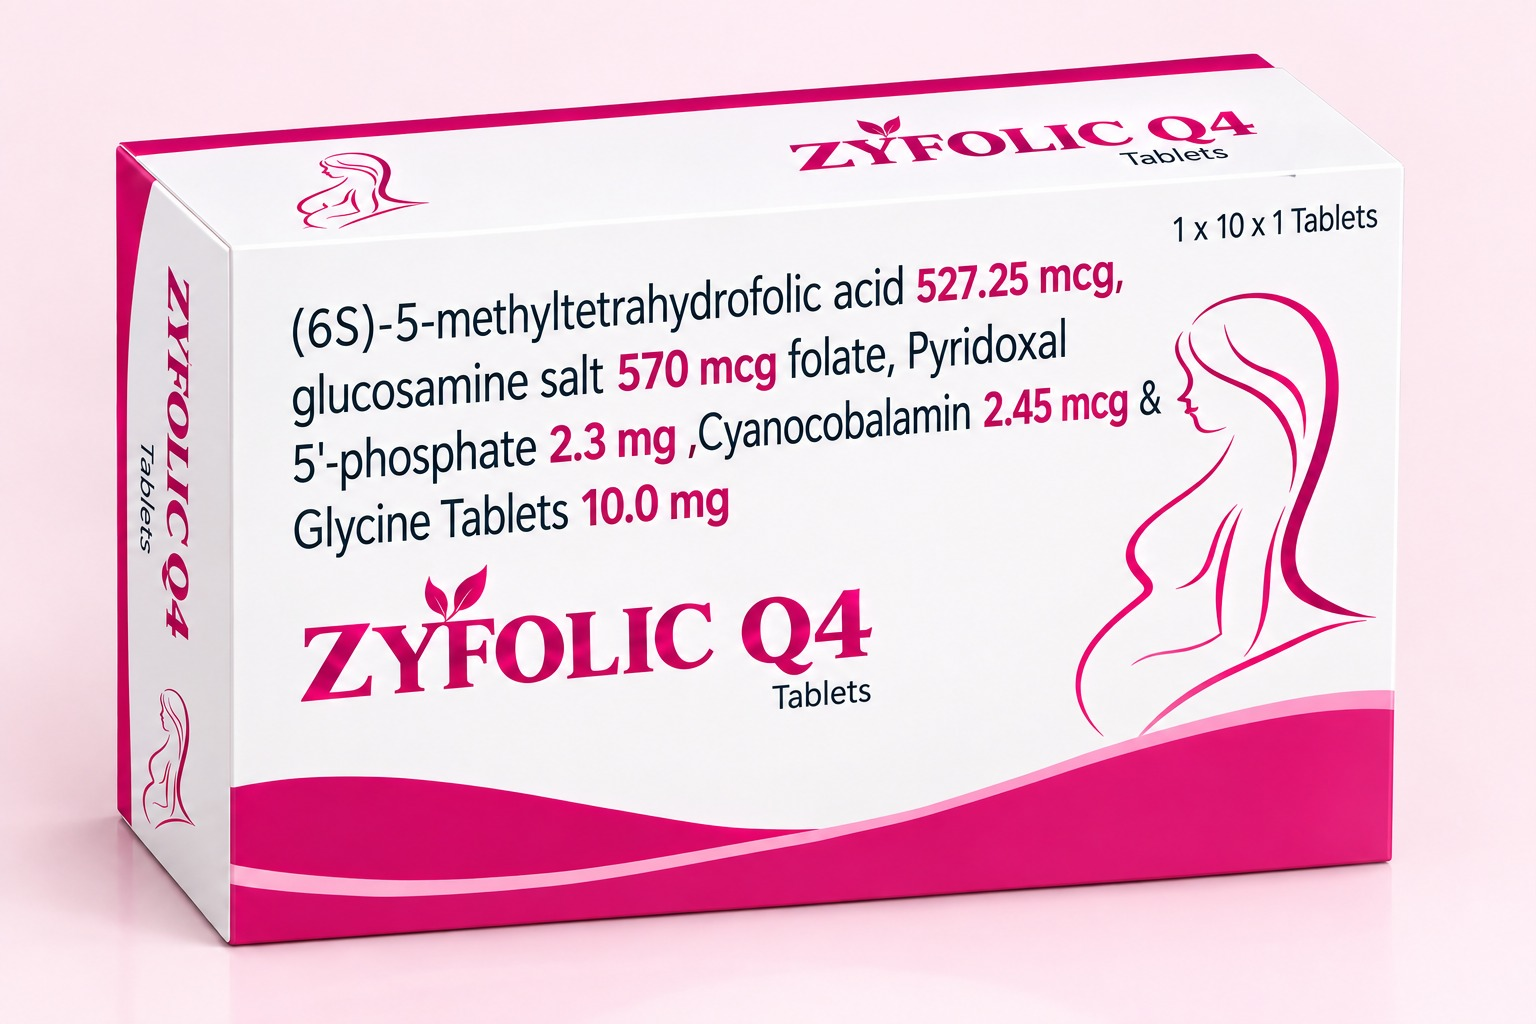
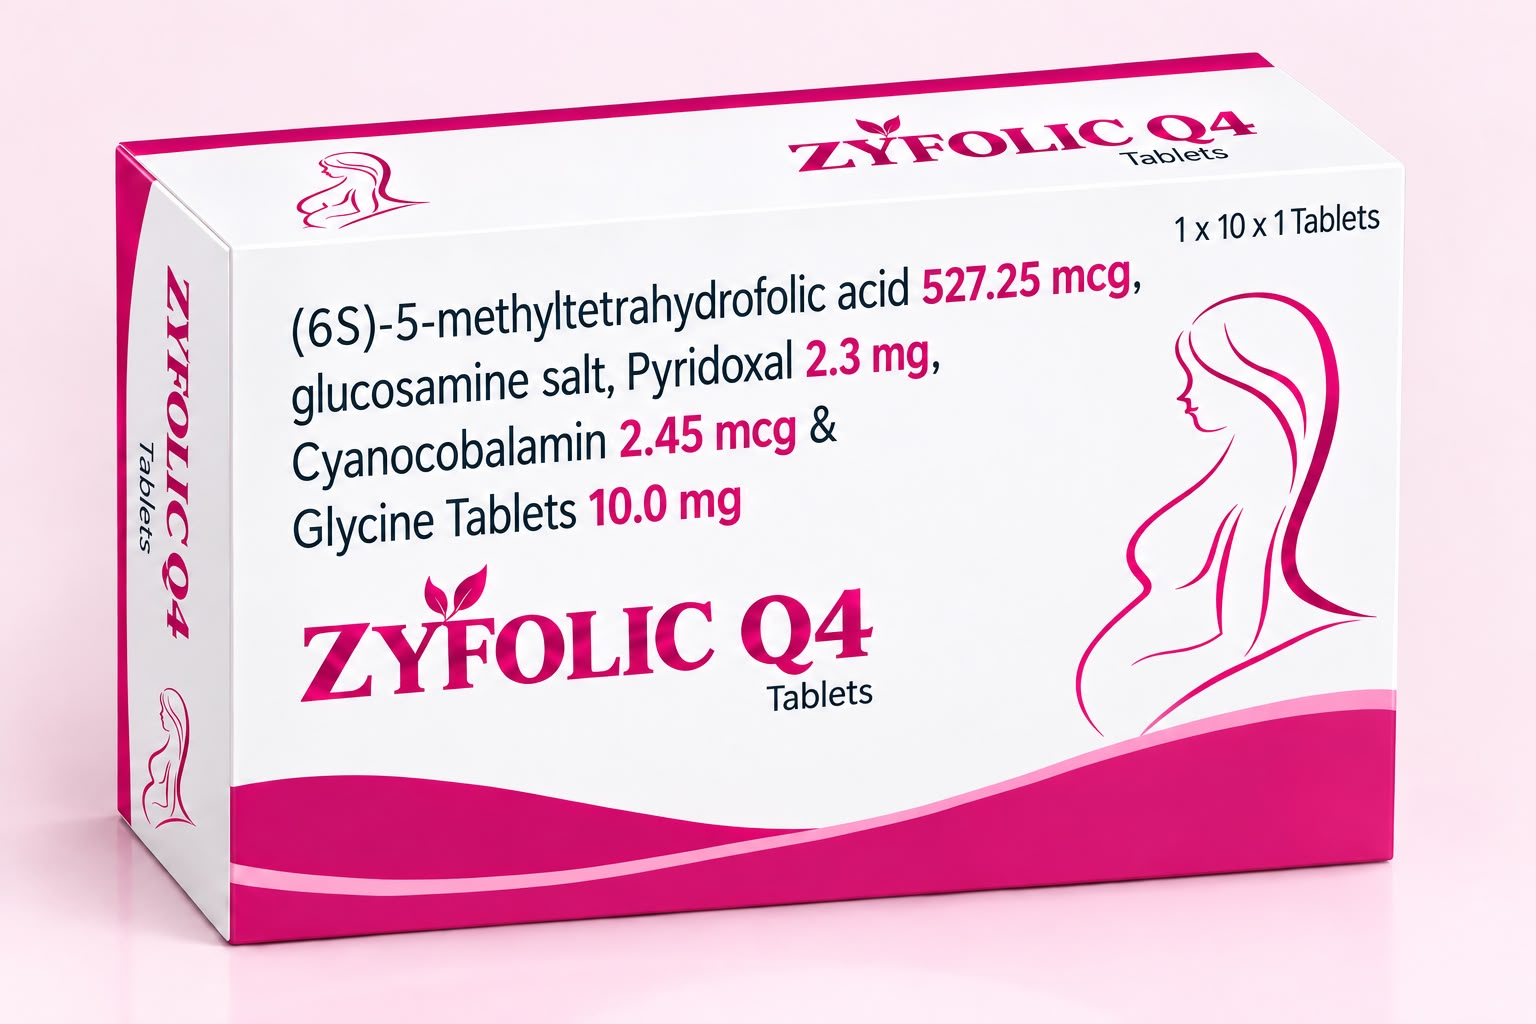
Contact departments, Facebook link, category moves, veg mark, new cartons
Contact
-------
The page now carries Zafieon's exact copy: "Contact Us" / "Let's Connect",
the new introduction, "Every Dose Matters." and "How Can We Help You?",
followed by the five enquiry departments — General, Sales & Business
Development, Purchase & Procurement, Corporate, Administration — each with
its description and its own mailbox as a mailto: link. The Reach us column,
offices and social row are unchanged.

Facebook
--------
The icon, previously shown without a link, now links to the profile URL
Zafieon supplied and opens in a new tab.

Categories
----------
  · New therapeutic area "Reproductive & Women's Health": Mifiprine and
    MISO-PRO (both keep their existing areas). No artwork was supplied for
    it; the home Focus panel and Our Focus render it without an image.
  · Fertility: Femulet added; Zyfolic and Zyfolic Q4 removed.
  · Women's Wellness: Zyfolic and Zyfolic Q4 added. Femulet moves out of
    Women's Wellness rather than sitting in both, per "do not duplicate
    products across categories".

Green veg mark
--------------
Shown on every product card, top-right of the image plate so it never meets
the Rx badge on the left — identical position and size on all 15 cards.
Recorded in docs/CLAIMS.md: only Femulet, Florabet LL and Ferrin-XT print a
vegetarian mark on their supplied artwork.

New cartons
-----------
  · Femi-Dros 20 (new photograph): 10 x 1 x 21 Tablets, and the pack's own
[…]

diff --git a/src/data/products.ts b/src/data/products.ts
@@ -70,17 +70,17 @@ const productRecords: Product[] = [
     dosageForm: "Tablets",
     therapeuticAreas: ["gynecology", "hormonal-health"],
     description:
-      "A prescription combination tablet containing Drospirenone and Ethinyl Estradiol at a lower estradiol strength, presented in a twenty-one tablet pack.",
-    composition: "Drospirenone 3 mg + Ethinyl Estradiol 0.02 mg Tablets IP",
-    packaging: "1 x 21 Tablets",
+      "A prescription combination tablet containing Drospirenone and Ethinylestradiol at a lower estradiol strength, presented in blisters of twenty-one tablets.",
+    composition: "Drospirenone 3 mg & Ethinylestradiol 0.02 mg Tablets IP",
+    packaging: "10 x 1 x 21 Tablets",
     packMarkings: ["Rx — Prescription only"],
     image: "/products/femi-dros-20.webp",
     blurDataURL:
[2 lines of base64/hex data omitted]
     imageAlt:
-      "Femi-Dros 20 carton — Drospirenone 3 mg and Ethinyl Estradiol 0.02 mg Tablets IP, 1 x 21 tablets, bearing the Zafieon Pharma mark",
+      "Femi-Dros 20 carton — Drospirenone 3 mg and Ethinylestradiol 0.02 mg Tablets IP, 10 x 1 x 21 tablets, bearing the Zafieon Pharma mark",
     zafieonBranded: true,
-    source: "Product Images/Femi dros 0.2.jpeg",
+    source: "public/products/femi dros 20.jpeg",
   },
   {
     id: "prd-03",
@@ -89,7 +89,7 @@ const productRecords: Product[] = [
     productClass: "prescription",
     categories: ["prescription"],
     dosageForm: "Tablets",
-    therapeuticAreas: ["gynecology"],
+    therapeuticAreas: ["gynecology", "reproductive-womens-health"],
     description:
       "A prescription tablet containing Misoprostol 200 mcg, presented in a twenty tablet pack.",
     composition: "Misoprostol Tablets IP 200 mcg",
@@ -110,7 +110,7 @@ const productRecords: Product[] = [
     productClass: "nutraceutical",
     categories: ["nutraceutical"],
     dosageForm: "Softgel Capsules",
-    therapeuticAreas: ["gynecology", "fertility"],
+    therapeuticAreas: ["gynecology", "womens-wellness"],
     description:
       "A softgel capsule combining L-Methyl folate, Methylcobalamin, Pyridoxal-5 Phosphate, DHA and Vitamin D3.",
     composition:
@@ -137,17 +137,17 @@ const productRecords: Product[] = [
     productClass: "nutraceutical",
     categories: ["nutraceutical"],
     dosageForm: "Tablets",
-    therapeuticAreas: ["gynecology", "fertility"],
+    therapeuticAreas: ["gynecology", "womens-wellness"],
     description:
-      "A tablet combining (6S)-5-methyltetrahydrofolic acid glucosamine salt, Pyridoxal 5'-phosphate, Cyanocobalamin and Glycine, presented in a ten tablet pack.",
+      "A tablet combining (6S)-5-methyltetrahydrofolic acid as its glucosamine salt with Pyridoxal, Cyanocobalamin and Glycine, presented in a ten tablet pack.",
     composition:
-      "(6S)-5-Methyltetrahydrofolic Acid 527.25 mcg, Glucosamine Salt 570 mcg Folate, Pyridoxal 5'-Phosphate 2.3 mg, Cyanocobalamin 2.45 mcg & Glycine 10.0 mg Tablets",
+      "(6S)-5-Methyltetrahydrofolic Acid 527.25 mcg, Glucosamine Salt, Pyridoxal 2.3 mg, Cyanocobalamin 2.45 mcg & Glycine 10.0 mg Tablets",
     packaging: "1 x 10 x 1 Tablets",
     image: "/products/zyfolic-q4.webp",
     blurDataURL:
[2 lines of base64/hex data omitted]
     imageAlt:
-      "Zyfolic Q4 carton — (6S)-5-methyltetrahydrofolic acid glucosamine salt, Pyridoxal 5'-phosphate, Cyanocobalamin and Glycine tablets, 1 x 10 x 1",
+      "Zyfolic Q4 carton — (6S)-5-methyltetrahydrofolic acid glucosamine salt, Pyridoxal, Cyanocobalamin and Glycine tablets, 1 x 10 x 1",
     zafieonBranded: false,
     source: "public/products/zyfolic Q4.jpeg",
   },
@@ -182,16 +182,16 @@ const productRecords: Product[] = [
     dosageForm: "Tablets",
     therapeuticAreas: ["gynecology", "womens-wellness"],
     description:
-      "A nutraceutical tablet combining liposomal ferric pyrophosphate with Vitamin C, Vitamin B12 and folic acid. Each tablet provides 30 mg of liposomal ferric pyrophosphate, 50 mg of Vitamin C, 2.2 mcg of Vitamin B12 and 200 mcg of folic acid, presented in a ten tablet pack.",
+      "A nutraceutical tablet combining iron, as liposomal ferric pyrophosphate, with Vitamin C, Vitamin B12 and folic acid. Each tablet provides ferric pyrophosphate equivalent to 30 mg of iron, 50 mg of Vitamin C, 2.2 mcg of Vitamin B12 and 200 mcg of folic acid, presented in a ten tablet pack.",
     composition:
-      "Ferric Pyrophosphate (Liposomal) 30 mg, Vitamin C 50 mg, Vitamin B12 2.2 mcg & Folic Acid 200 mcg Tablets",
+      "Ferric Pyrophosphate (Liposomal) eq. Iron 30 mg, Vitamin C 50 mg, Vitamin B12 2.2 mcg & Folic Acid 200 mcg Tablets",
     packaging: "1 x 10 x 1 Tablets",
     packMarkings: ["For better absorption & healthier tomorrow"],
     image: "/products/iro-plus.webp",
     blurDataURL:
[2 lines of base64/hex data omitted]
     imageAlt:
-      "Iro Plus carton — Ferric Pyrophosphate (Liposomal) 30 mg, Vitamin C, Vitamin B12 and Folic Acid tablets, 1 x 10 x 1",
+      "Iro Plus carton — Ferric Pyrophosphate (Liposomal) eq. Iron 30 mg, Vitamin C, Vitamin B12 and Folic Acid tablets, 1 x 10 x 1",
     zafieonBranded: false,
     source: "public/products/iroplus.jpeg",
   },
@@ -202,7 +202,7 @@ const productRecords: Product[] = [
     productClass: "nutraceutical",
     categories: ["nutraceutical"],
     dosageForm: "Tablets",
-    therapeuticAreas: ["gynecology", "womens-wellness"],
+    therapeuticAreas: ["gynecology", "fertility"],
     description:
       "A nutraceutical tablet for women combining N-Acetyl L-Cysteine, Coenzyme Q10, Melatonin, Astaxanthin, Folic Acid and vitamins B6, B12 and D2.",
     composition:
@@ -268,7 +268,7 @@ const productRecords: Product[] = [
     productClass: "prescription",
     categories: ["prescription", "hormone"],
     dosageForm: "Tablets",
-    therapeuticAreas: ["gynecology", "hormonal-health"],
+    therapeuticAreas: ["gynecology", "hormonal-health", "reproductive-womens-health"],
     description:
       "A prescription tablet containing Mifepristone 200 mg, presented in a ten tablet pack.",
     composition: "Mifepristone Tablets IP 200 mg",

diff --git a/src/data/site.ts b/src/data/site.ts
@@ -110,36 +110,51 @@ export const social: { id: SocialId; label: string; href: string }[] = [
   {
     id: "facebook",
     label: "Facebook",
-    // To be supplied by Zafieon. Leave empty until then.
-    href: "",
+    href: "https://www.facebook.com/61593976726278/?http_ref=eyJ0cyI6MTc4OTc5NzY3NTAwMCwiciI6IiJ9",
   },
 ];
 
 /**
- * The Contact page's standing invitation, in place of an enquiry form.
+ * The Contact page's enquiry routes, in place of a form.
  *
- * Each strand names a reason someone would get in touch and routes to the same
- * verified email — there is no second form behind it.
+ * Five departments, each with the address Zafieon published for it. Every one
+ * is a real mailbox supplied by the client — nothing here is a guess, and the
+ * page turns each into a `mailto:` link.
  */
 export const connect = {
   eyebrow: "Let's connect",
-  headline: ["Good partnerships begin", "with a conversation."],
-  body: "Whether you're interested in our products, exploring a business opportunity, or simply want to know more about Zafieon Pharma, we'd be happy to connect.",
+  headline: ["How can we", "help you?"],
+  body: "At ZAFIEON PHARMA, we believe meaningful partnerships begin with meaningful conversations. Whether you are a healthcare professional, distributor, business partner, supplier, or customer, our team is here to assist you.",
   strands: [
     {
-      id: "products",
-      label: "Products",
-      body: "Pharmaceutical products and portfolio",
-    },
-    {
-      id: "partnerships",
-      label: "Partnerships",
-      body: "Business and collaboration opportunities",
-    },
-    {
       id: "general",
-      label: "General Information",
-      body: "Learn more about Zafieon Pharma",
+      label: "General Enquiries",
+      body: "For general information about ZAFIEON PHARMA, our products, services, and company.",
+      email: "info@zafieonpharma.com",
+    },
+    {
+      id: "sales",
+      label: "Sales & Business Development",
+      body: "For product enquiries, business opportunities, distribution partnerships, and sales-related enquiries.",
+      email: "sales@zafieonpharma.com",
+    },
+    {
+      id: "purchase",
+      label: "Purchase & Procurement",
+      body: "For suppliers, procurement, manufacturing requirements, and purchase-related enquiries.",
+      email: "purchase@zafieonpharma.com",
+    },
+    {
+      id: "corporate",
+      label: "Corporate Enquiries",
+      body: "For corporate communication, strategic partnerships, and management-related matters.",
+      email: "jahirhussain.s@zafieonpharma.com",
+    },
+    {
+      id: "administration",
+      label: "Administration",
+      body: "For administrative and organizational enquiries.",
+      email: "afiathabusun.n@zafieonpharma.com",
     },
   ],
   cta: { label: "Get in Touch" },

diff --git a/src/app/contact/page.tsx b/src/app/contact/page.tsx
@@ -18,9 +18,9 @@ export const metadata: Metadata = {
  *
  * There is deliberately no enquiry form. Zafieon uses this site as a company
  * presentation in front of doctors and trade, not as a lead-capture funnel, so
- * the space a form would occupy carries an invitation and the three reasons
- * someone would take it up. Every route out of here lands on the same verified
- * email — there is no second form behind the button.
+ * the space a form would occupy carries the five enquiry departments Zafieon
+ * supplied — General, Sales & Business Development, Purchase & Procurement,
+ * Corporate and Administration — each with its own mailbox as a mailto: link.
  *
  * The Telephone entry, and the note beneath the details promising a number,
  * are removed at Zafieon's instruction. Email and the two offices remain; the
@@ -42,9 +42,9 @@ export default function ContactPage() {
   return (
     <>
       <PageHero
-        eyebrow="Contact"
-        lines={["Let's", "connect."]}
-        body="Whether you are a distributor, a healthcare professional, a prospective manufacturing partner or simply want to understand what we do — we would like to hear from you."
+        eyebrow="Contact Us"
+        lines={["Let's", "Connect."]}
+        body={connect.body}
         breadcrumb={[
           { label: "Home", href: "/" },
           { label: "Contact", href: "/contact" },
@@ -148,7 +148,6 @@ export default function ContactPage() {
                   </span>
                 ))}
               </h2>
-              <p className="lede mt-7 max-w-[48ch]">{connect.body}</p>
             </Reveal>
 
             <Stagger step={0.08} className="mt-14 border-t border-line">
@@ -164,6 +163,15 @@ export default function ContactPage() {
                       </h3>
                       <p className="mt-2.5 text-[0.92rem] leading-[1.7] text-muted">
                         {s.body}
+                      </p>
+                      <p className="mt-3 text-[0.9rem] leading-[1.6] text-navy">
+                        <span className="text-muted-light">Email: </span>
+                        <a
+                          href={`mailto:${s.email}`}
+                          className="break-all underline decoration-line-strong underline-offset-4 transition-colors hover:decoration-magenta"
+                        >
+                          {s.email}
+                        </a>
                       </p>
                     </div>
                   </div>

diff --git a/src/data/focus.ts b/src/data/focus.ts
@@ -66,6 +66,20 @@ export const focusAreas: FocusArea[] = [
     detail:
       "A nutraceutical is not a lesser product. Our wellness range is held to the same partner qualification, the same documentation expectations and the same supply discipline as everything else we put our name to.",
   },
+  {
+    /* Added at Zafieon's instruction, for the products dispensed in
+       reproductive care. No area artwork has been supplied for it yet, and
+       `image` is optional — the home Focus panel and Our Focus both render an
+       area without one rather than showing a stand-in. */
+    id: "reproductive-womens-health",
+    slug: "reproductive-womens-health",
+    label: "Reproductive & Women's Health",
+    headline: "Reproductive care, supplied responsibly.",
+    description:
+      "Prescription products used in reproductive care, dispensed under medical supervision and supplied through qualified manufacturing partners.",
+    detail:
+      "These are products where the supply chain itself carries a duty of care: prescription-only medicines, dispensed under medical supervision, with the regulatory conditions that apply to them observed at every step. Zafieon's role is to be certain of what was made, how it was documented and how it reaches the pharmacy.",
+  },
 ];
 
 export const getFocusArea = (slug: string) =>

diff --git a/src/components/ProductCard.tsx b/src/components/ProductCard.tsx
@@ -53,6 +53,18 @@ export default function ProductCard({
           </span>
         )}
 
+        {/* The green vegetarian mark — a green square outline around a green
+            dot — shown on every card at Zafieon's instruction. Top-right, so it
+            never collides with the Rx badge on the left. */}
+        <span
+          role="img"
+          aria-label="Vegetarian"
+          title="Vegetarian"
+          className="absolute top-4 right-4 inline-flex h-5 w-5 items-center justify-center border-[1.5px] border-[#1a8f3c] bg-white"
+        >
+          <span aria-hidden="true" className="h-2.5 w-2.5 rounded-full bg-[#1a8f3c]" />
+        </span>
+
         {/* Magenta sweep on the plate's base edge */}
         <span
           aria-hidden="true"

diff --git a/src/data/types.ts b/src/data/types.ts
@@ -28,7 +28,8 @@ export type FocusAreaId =
   | "gynecology"
   | "hormonal-health"
   | "fertility"
-  | "womens-wellness";
+  | "womens-wellness"
+  | "reproductive-womens-health";
 
 export interface Product {
   id: string;

diff --git a/docs/CLAIMS.md b/docs/CLAIMS.md
@@ -354,6 +354,23 @@ make that visible before the reader clicks.
 The exception is **Meta-CoQ 300**, whose carton is marked "For Men". It is not
 a gynaecology product and is listed under Fertility only.
 
+### Area changes of 19 September, at Zafieon's instruction
+
+- A new area, **Reproductive & Women's Health**, holds Mifiprine and MISO-PRO.
+  Both keep their existing areas as well. No area artwork has been supplied for
+  it, and none is substituted.
+- **Femulet** moves from Women's Wellness to Fertility.
+- **Zyfolic** and **Zyfolic Q4** move from Fertility to Women's Wellness.
+
+### The green vegetarian mark
+
+At Zafieon's instruction the green vegetarian mark is shown on **every**
+product card. ⚠ Only Femulet, Florabet LL and Ferrin-XT print a vegetarian
+mark on their supplied artwork; the prescription tablets and the Proluvia-AQ
+injection do not. The mark on those cards is Zafieon's own statement, not a
+reproduction of the pack, and Zafieon should confirm it is accurate for every
+product before launch.
+
 ⚠ Nothing about this asserts that a given product is indicated for a given
 condition. No page states an indication for any product.
 
